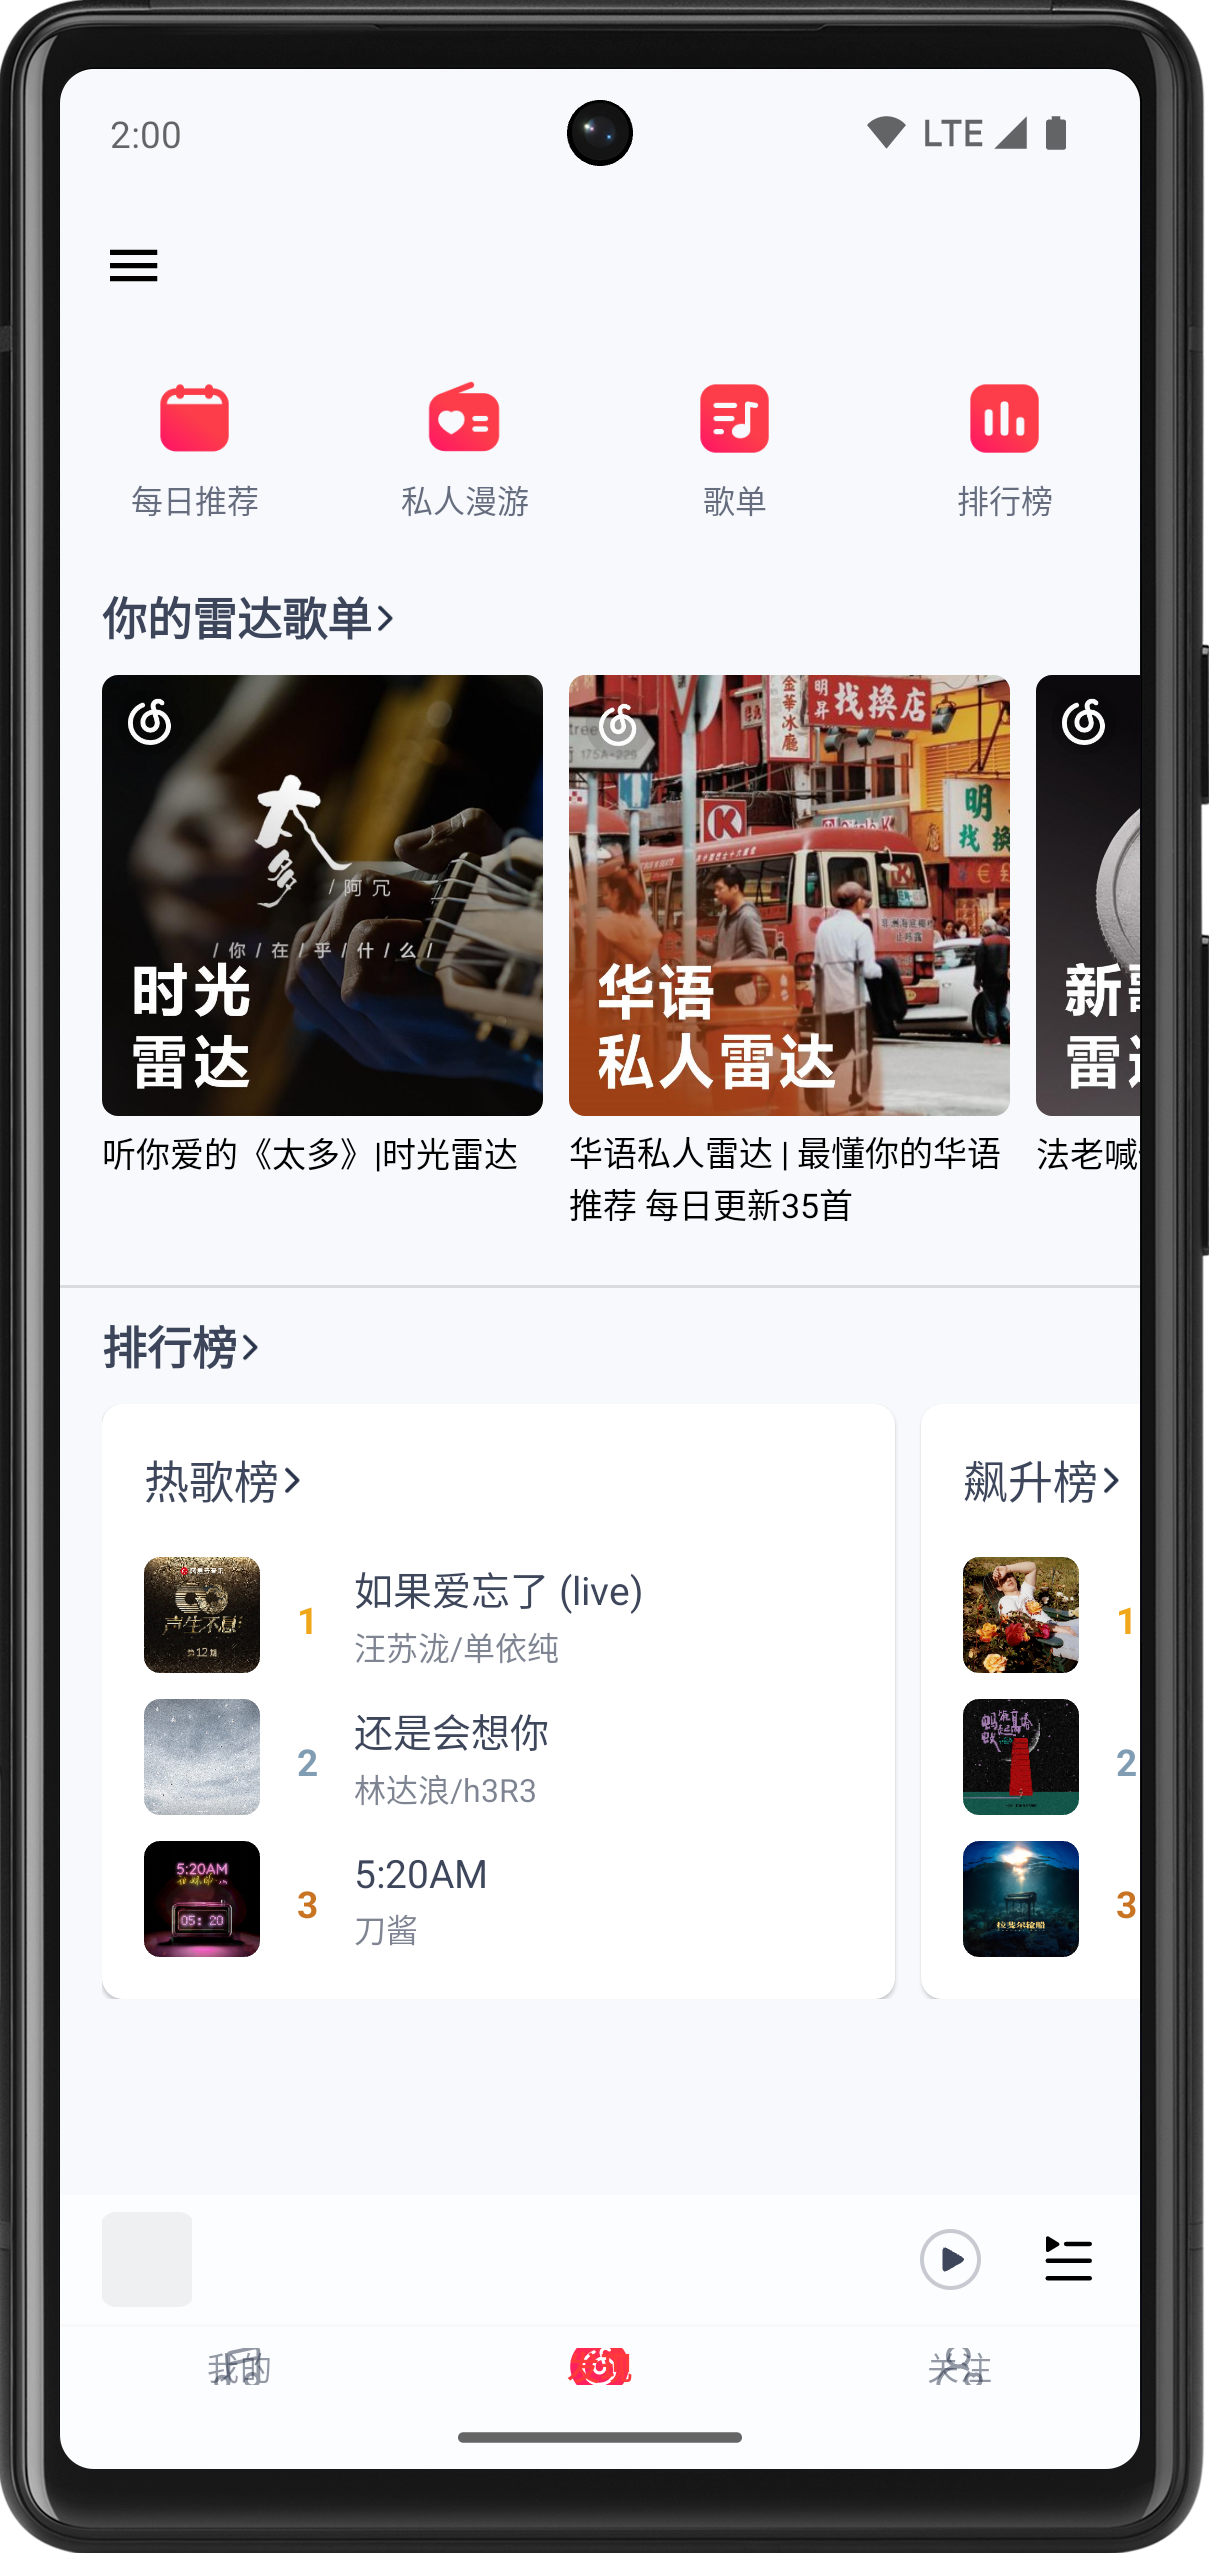
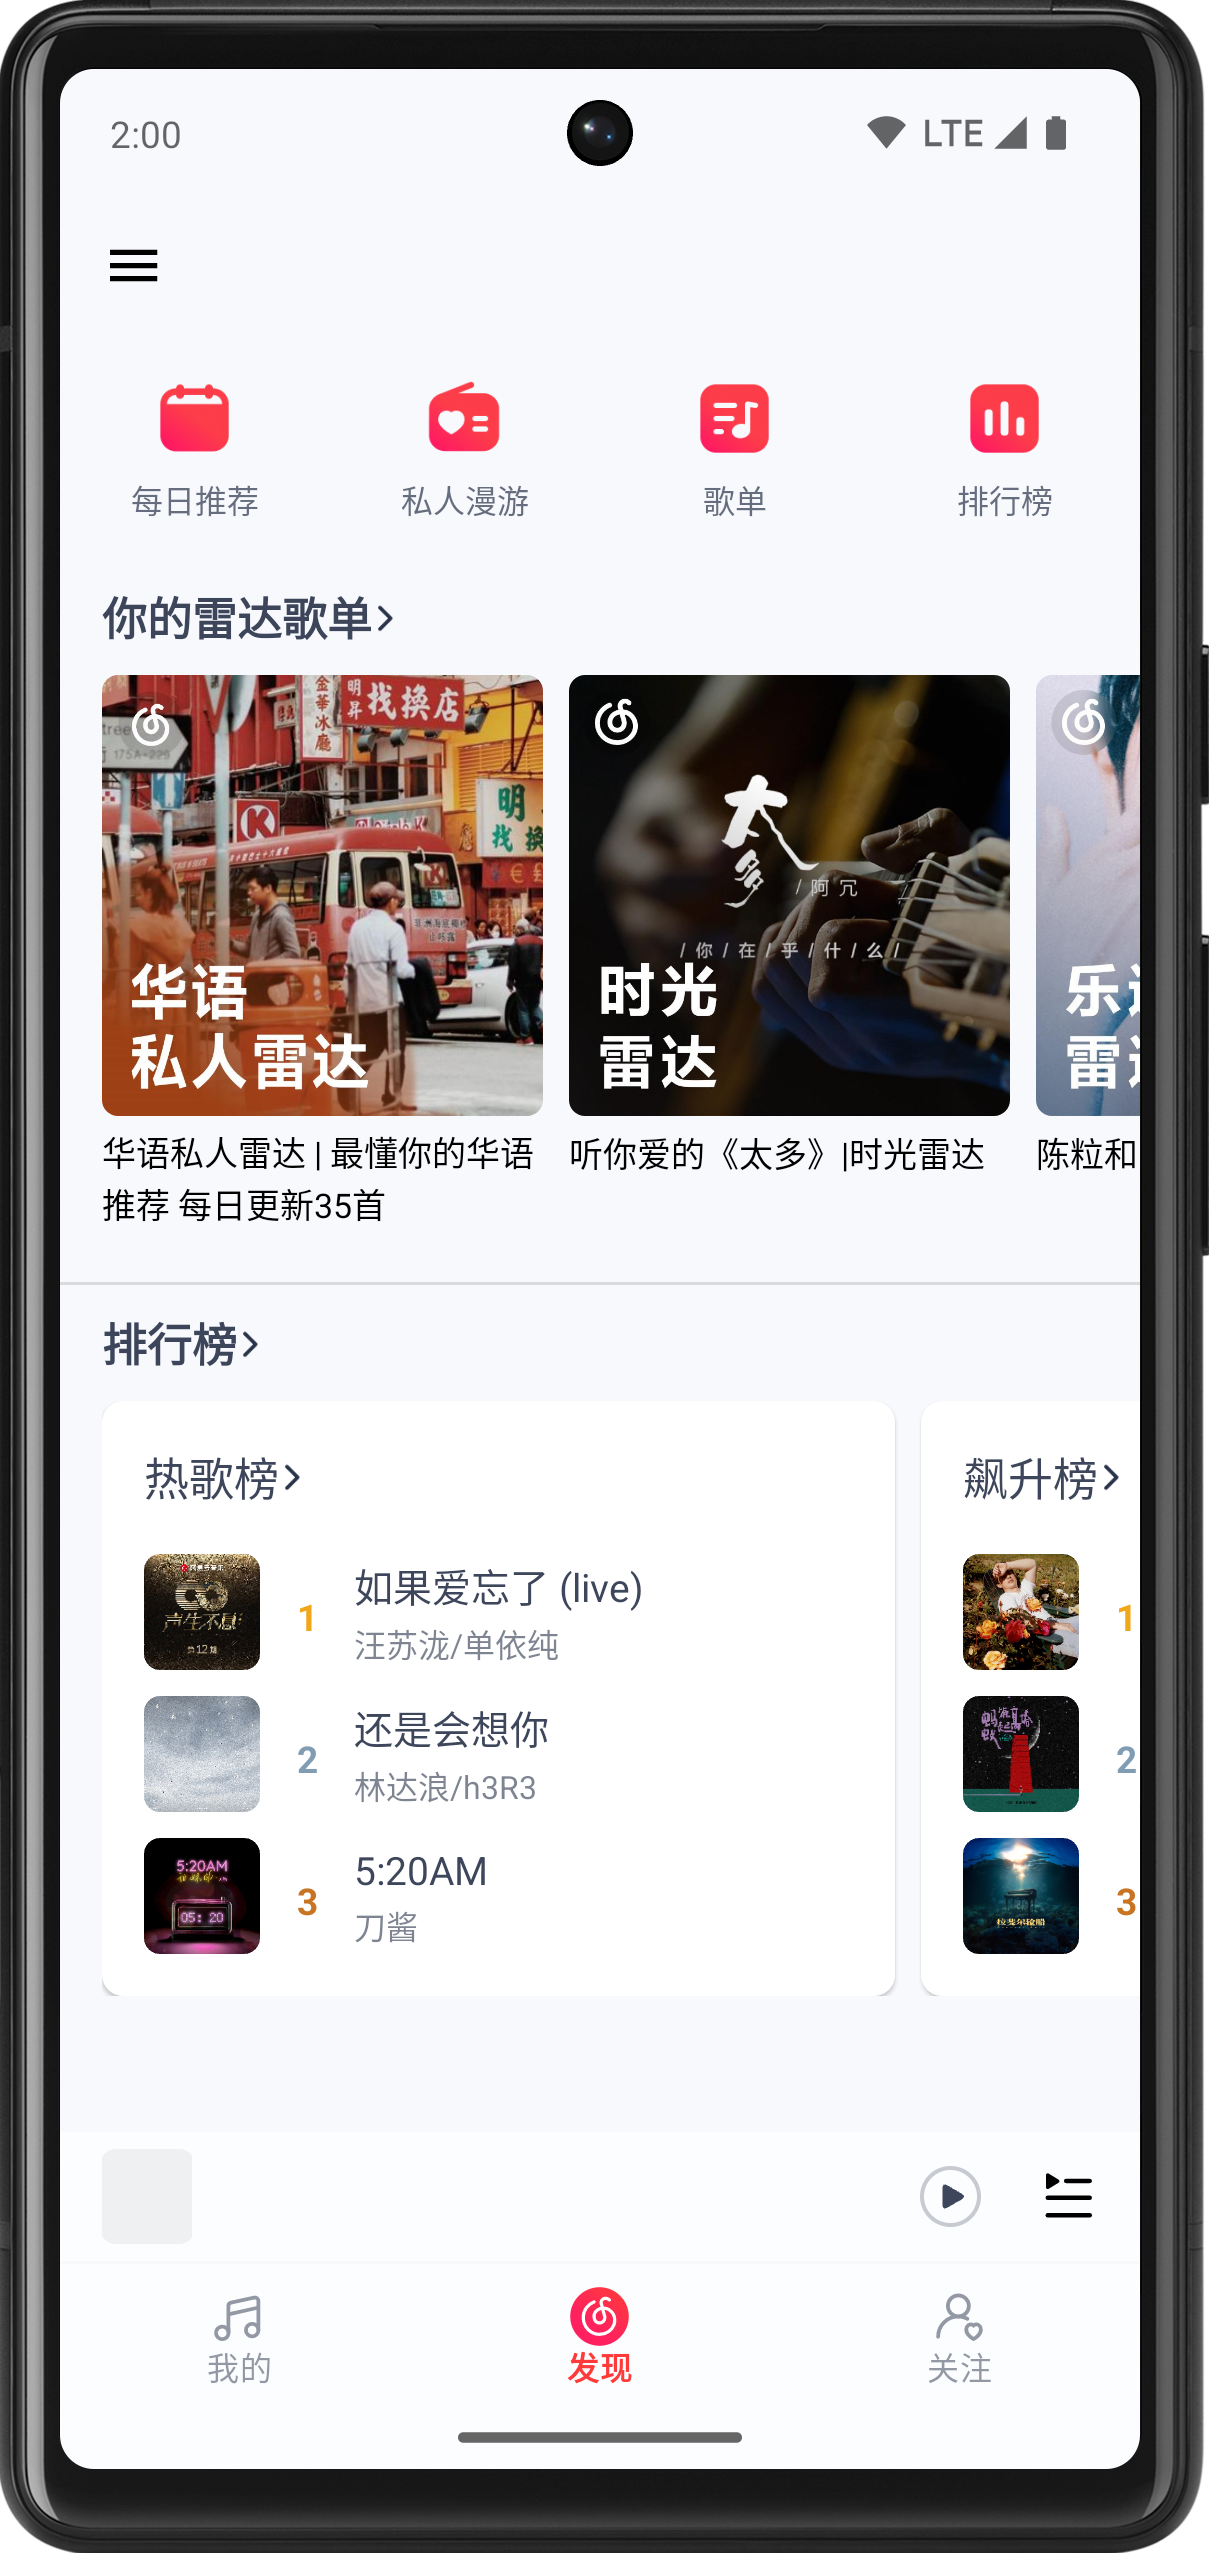
Fix bottom inset not being handled to correctly display BNV
GitOrigin-RevId: 0b747680ab86014d241905fed108501e6ba4822f

diff --git a/app/src/main/java/com/github/bumblebee202111/minusonecloudmusic/ui/main/MainFragment.kt b/app/src/main/java/com/github/bumblebee202111/minusonecloudmusic/ui/main/MainFragment.kt
@@ -4,22 +4,21 @@ import android.os.Bundle
 import android.view.LayoutInflater
 import android.view.View
 import android.view.ViewGroup
+import androidx.core.view.WindowInsetsCompat
 import androidx.core.view.forEach
-import androidx.fragment.app.activityViewModels
+import androidx.core.view.isVisible
 import androidx.fragment.app.viewModels
 import androidx.media3.common.util.UnstableApi
-import androidx.media3.session.MediaController
 import androidx.navigation.fragment.NavHostFragment
 import androidx.navigation.fragment.findNavController
 import androidx.navigation.ui.setupWithNavController
 import com.github.bumblebee202111.minusonecloudmusic.R
 import com.github.bumblebee202111.minusonecloudmusic.databinding.FragmentMainBinding
-import com.github.bumblebee202111.minusonecloudmusic.ui.MainActivityViewModel
 import com.github.bumblebee202111.minusonecloudmusic.ui.common.AbstractMiniPlayerBarFragment
+import com.github.bumblebee202111.minusonecloudmusic.ui.common.doOnApplyWindowInsets
 import com.github.bumblebee202111.minusonecloudmusic.ui.common.repeatWithViewLifecycle
 import com.google.android.material.bottomnavigation.BottomNavigationView
 import com.google.android.material.navigation.NavigationView
-import com.google.common.util.concurrent.ListenableFuture
 import dagger.hilt.android.AndroidEntryPoint
 import kotlinx.coroutines.launch
 
@@ -72,6 +71,16 @@ class MainFragment : AbstractMiniPlayerBarFragment() {
             menuItem.isChecked = true
             drawerLayout.close()
             true
+        }
+
+        binding.root.doOnApplyWindowInsets { _, insets, _ ->
+            val systemBars = insets.getInsets(WindowInsetsCompat.Type.systemBars())
+            bottomNavView.run {
+                layoutParams.height =
+                    resources.getDimensionPixelSize(R.dimen.bottom_nav_view_height) + systemBars.bottom
+                isVisible = true
+                requestLayout()
+            }
         }
 
         repeatWithViewLifecycle {

diff --git a/README.md b/README.md
@@ -55,81 +55,49 @@ Below are some factors that may hinder you from using it, which can change over 
   - Search
   - Comments
   - My Chart (听歌排行)
-
 - Extended screens / major features
 
   - Personal FMs
   - Friends
   - MVs
   - Drawer
-
 - Statusbar lyrics
-
 - \[Mini Player\] Swipe, Hide like `PlayControlView`
-
 - [Mini Player\] [Now Playing\] Transition
-
 - [Player] Continue the work of moving Player to VM
-
 - [Now Playing\] Use light status bar text
-
 - [Now Playing\] Follow
-
-- [BNV\] Fix overlapping of icon and title on some devices such as my AVD
-
 - [Playlist] Items
   - Actions
   - Cloud/favorite/试听(trial)/unavailable UI state
-
 - Use Channel to show Toasts
-
 - [Player] Handle fetch error
-
 - More caching when RemoteMediator becomes non-experimental
   - Playlist, lyrics ...
-
 - [Now Playing] Provide bottom volume bar dialog (instead of showing sytem volume toast) for systems where the built-in output switcher dialog is unavailable.
-
 - [Settings] Add 底部导航自定义
   - ~~Delayed since: it's gone forever in our installed official app; it's not officially supported~~ Seems it can be found with some tricks
-
 - [Network] More elegant
   - My own CookieJar implementation
   - Custom param annotation
   - [Network] Add ApiResponse wrapper for more precise error tracking
-
 - On-boarding
-
 - Link local/downloaded songs with remote ones
   - Lyrics and cover matching
   - Advanced download
-
 - [Nav] Continue the work of optimizing navigation code
-
 - [Player] Support various audio qualities
-
 - [Arch] Clarify the dividing line between network layer and repo layer and consider removing the `NetworkDataSource` wrapper
-
 - [NCMB] Fully deprecate it 
-
 - [Login] SMS captcha login
-
 - [Arch] More elegant data mapping
-
 - [Compose] Write non-NCM screens in Compose
-
 - [Qualification] Add quiz activity/app based on JetSurvey
-
 - [Mine] Add shadow for profile background
-
 - [Mine] Top crop profile background
-
 - [Mine] Fix top margin of user profile
-
 - [Full-screen Player] Maybe use Compose FlowRow and Arrangement.SpaceAround for control buttons
-
 - [Music Player Bar] Fix top shadow
-
 - [MinusTue] A minimum NCM app for exploring Vue3
 
 ## Libraries used

diff --git a/CHANGELOG.md b/CHANGELOG.md
@@ -4,6 +4,7 @@ Change Log
 ## Version 1.0.0-dev07 (baseline: NCM 9.0.80)
 
 - Update DiscoverFragment from draft to basic one
+- Fix bottom inset not being handled to correctly display BNV
 
 ## Version 1.0.0-dev06 (baseline: NCM 9.0.80)
 
